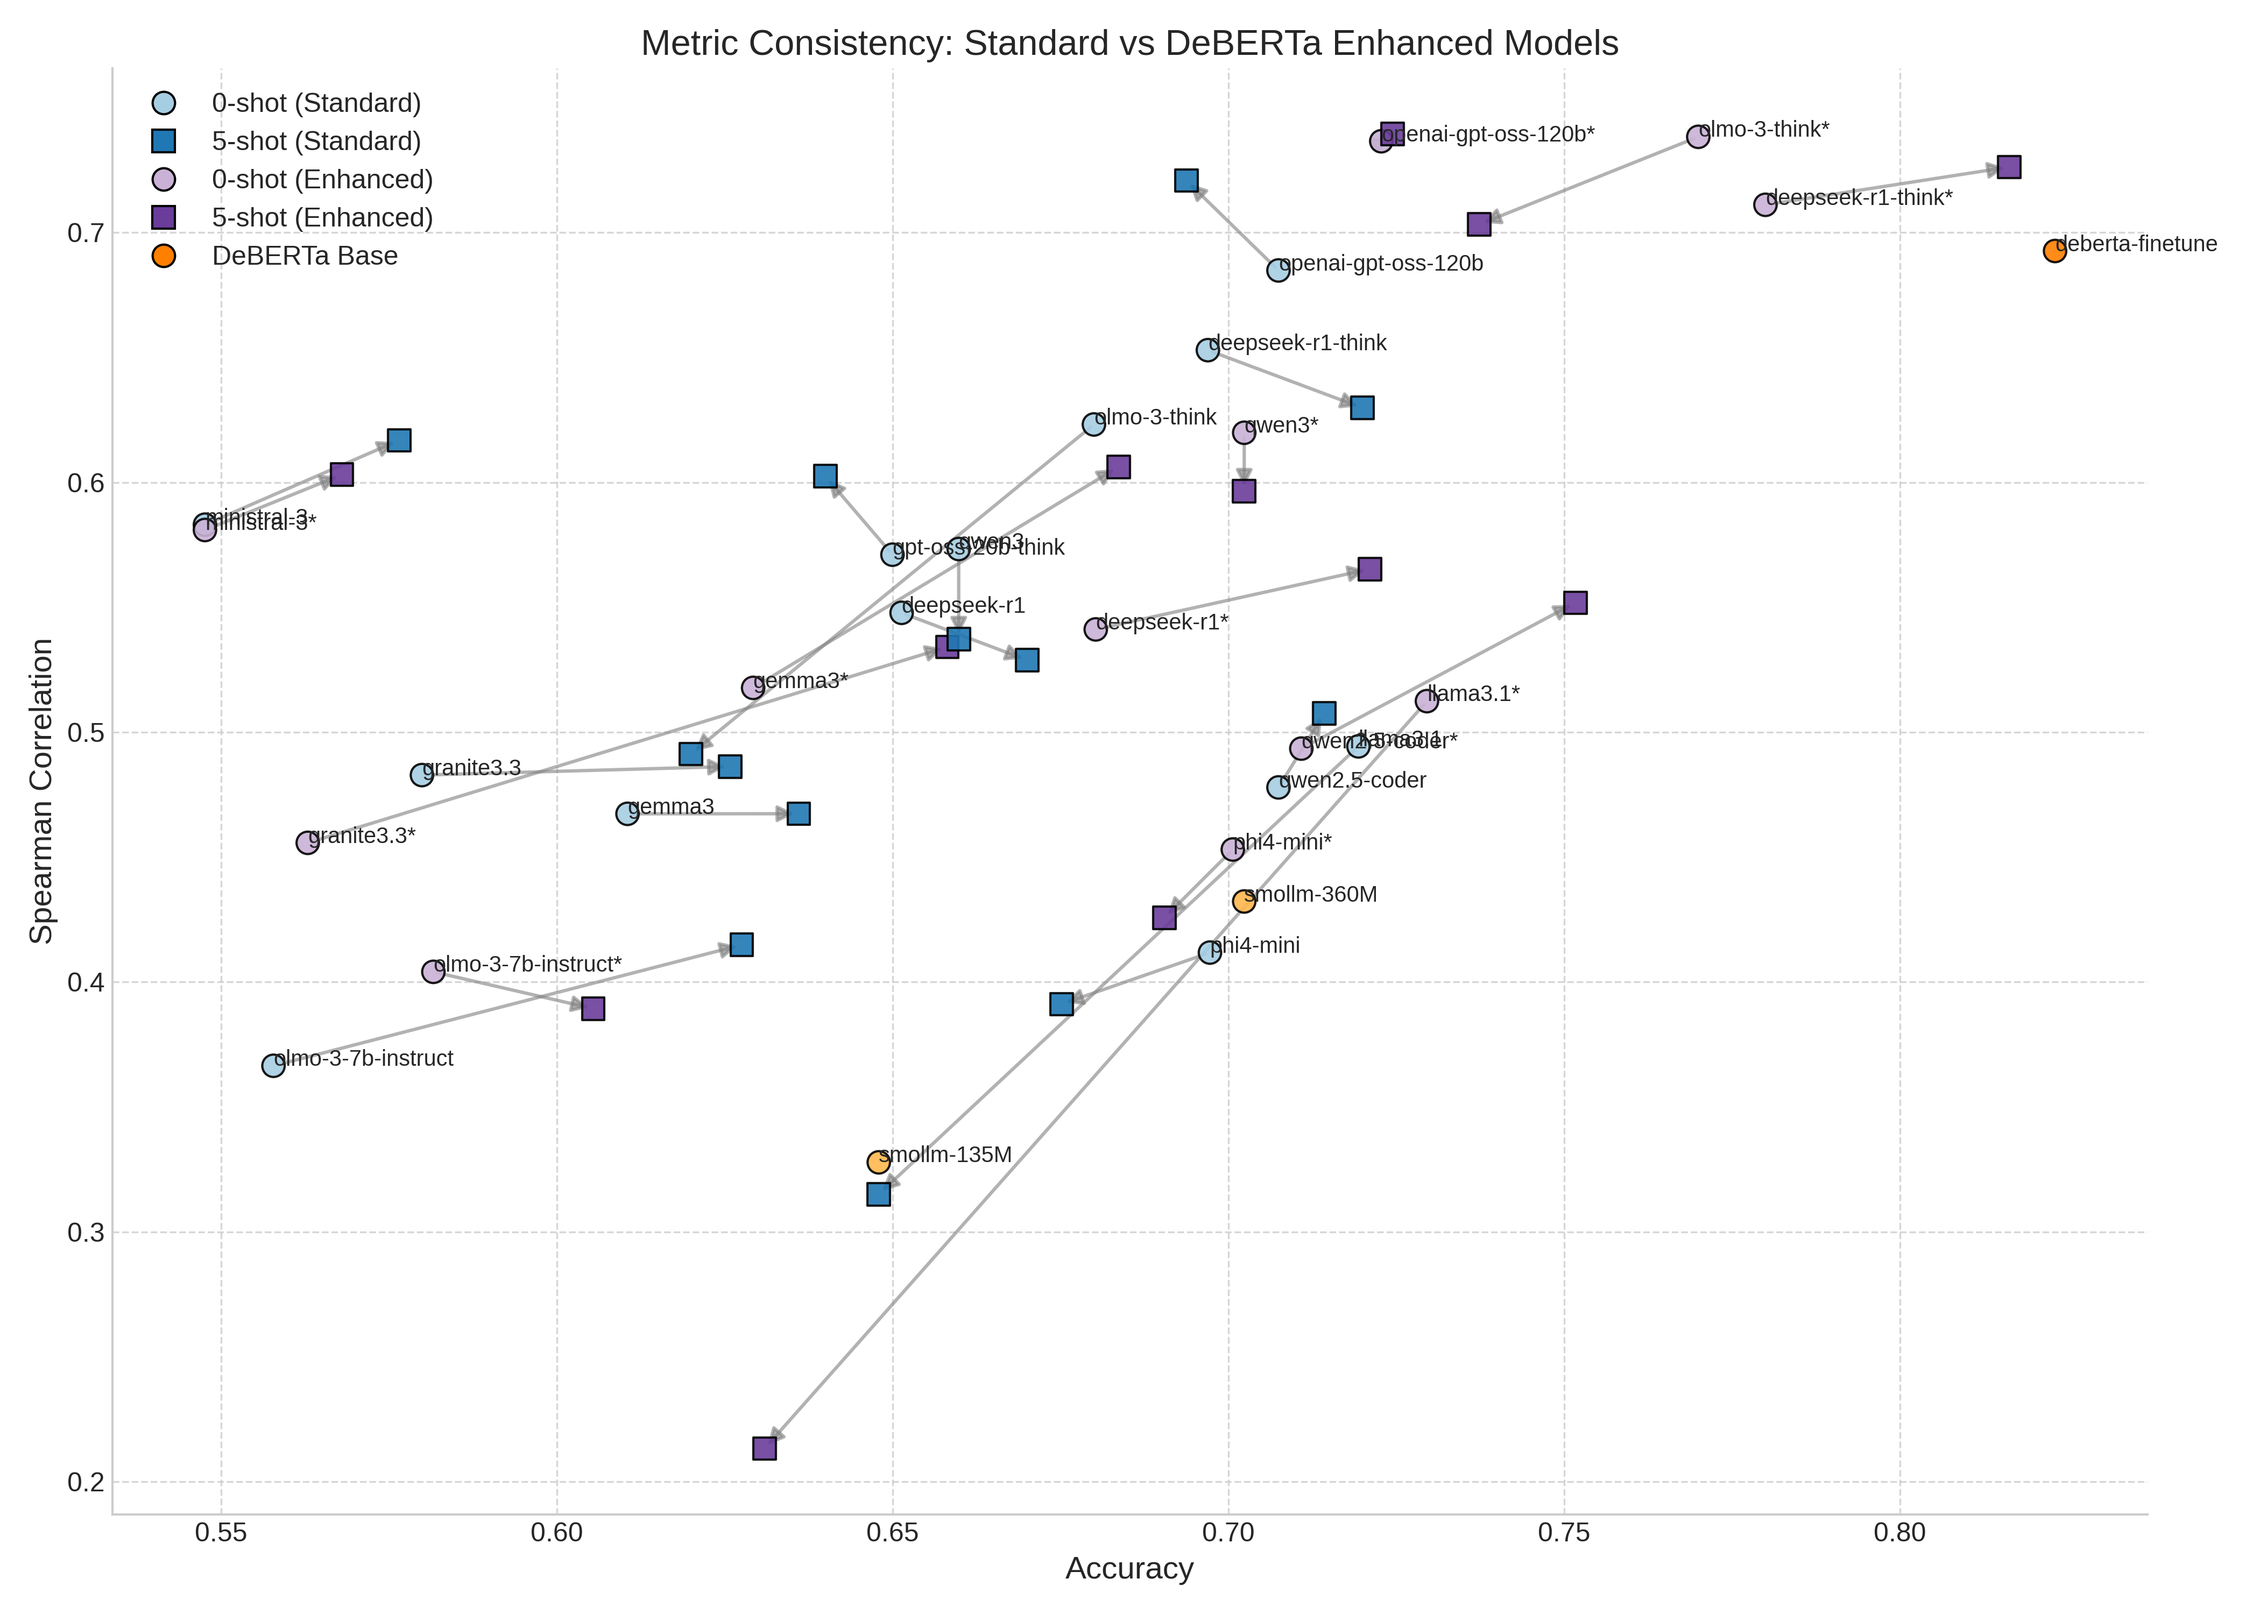
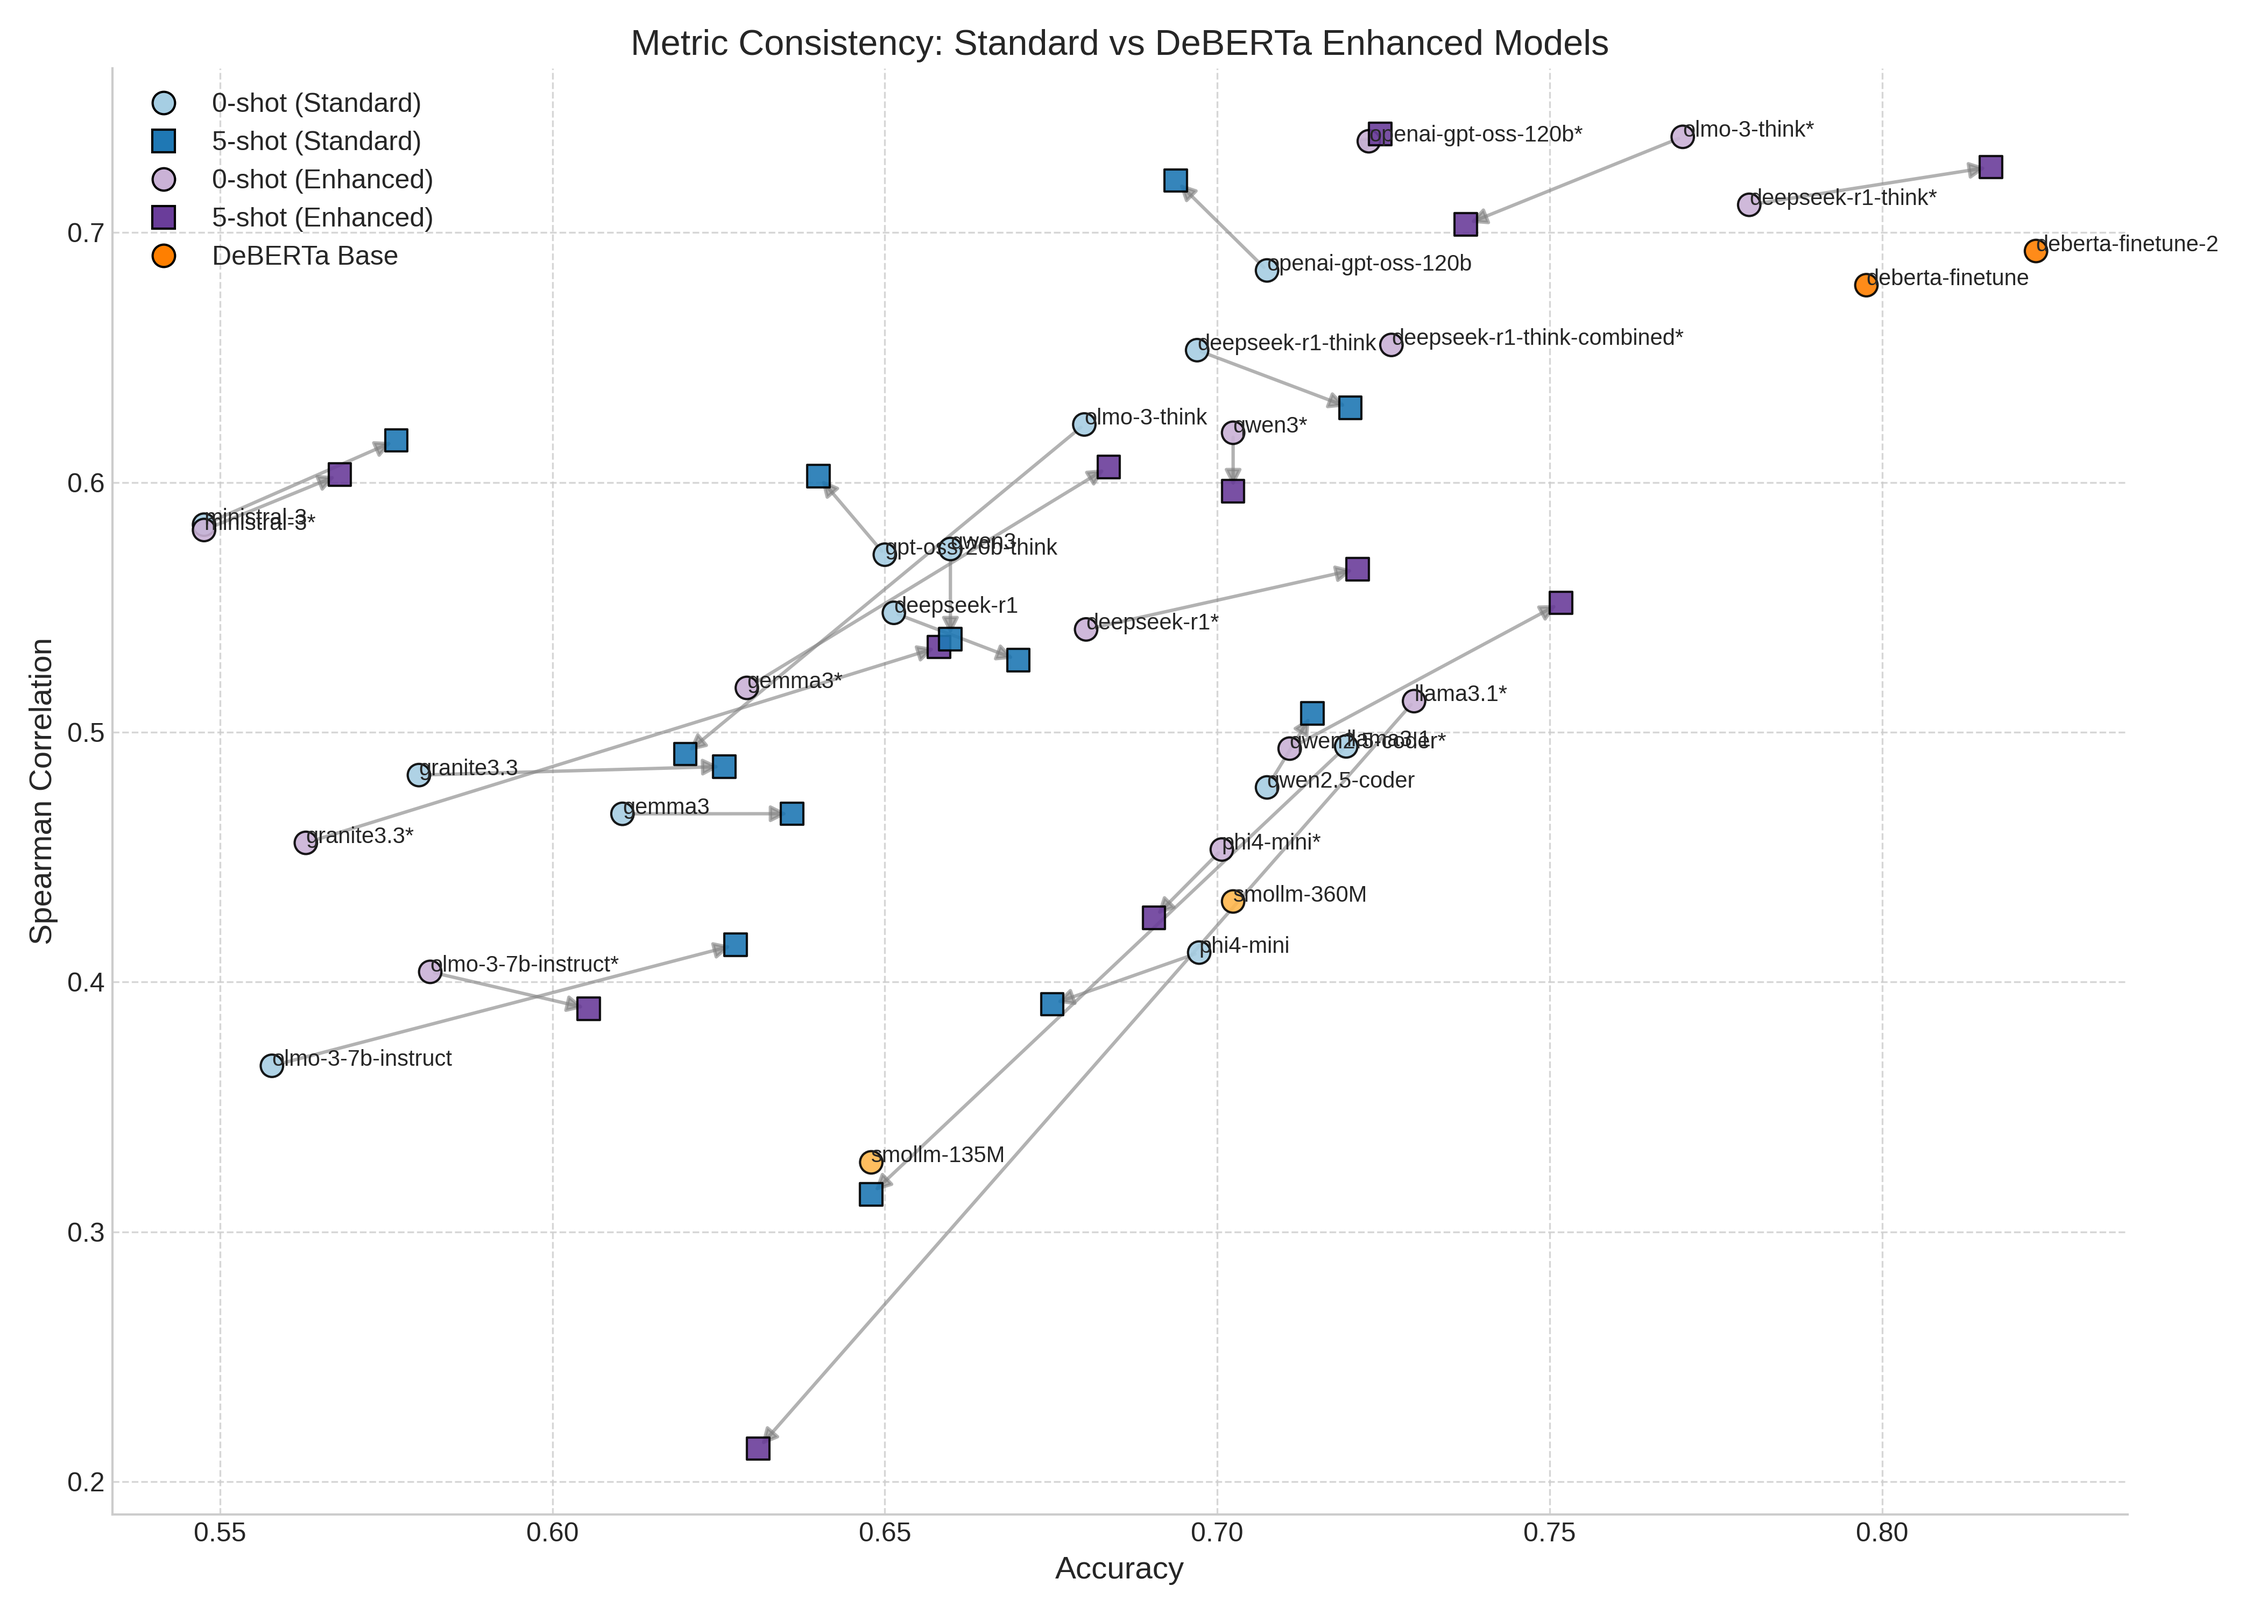
Plotting both versions of deberta-finetune

diff --git a/scripts/plot_results.py b/scripts/plot_results.py
@@ -169,87 +169,6 @@ def plot_improvement(df: pd.DataFrame, output_dir: Path):
     # This is basically the same as plot_accuracy but with annotations enabled.
     plot_grouped_bars(df, 'accuracy', 'Few-shot Learning Impact: Standard vs Enhanced', 'Accuracy', output_dir / 'few_shot_improvement.png', show_improvement=True)
 
-
-
-def plot_metric_consistency(df: pd.DataFrame, output_dir: Path):
-    """Plot Accuracy vs Spearman correlation (Zero-shot and Five-shot) to check consistency."""
-    # Prepare 0-shot data
-    z_df = df[['model', 'zero_accuracy', 'zero_spearman']].dropna().copy()
-    z_df = z_df.rename(columns={'zero_accuracy': 'accuracy', 'zero_spearman': 'spearman'})
-    
-    # Prepare 5-shot data
-    f_df = df[['model', 'five_accuracy', 'five_spearman']].dropna().copy()
-    f_df = f_df.rename(columns={'five_accuracy': 'accuracy', 'five_spearman': 'spearman'})
-    
-    if z_df.empty and f_df.empty:
-        print("No data available for metric consistency plot.")
-        return
-
-    fig, ax = plt.subplots(figsize=(12, 9))
-    
-    # Colors
-    c_0 = '#a6cee3' # Light Blue
-    c_5 = '#1f78b4' # Dark Blue
-    c_deberta = '#ff7f00' # Orange for DeBERTa
-    c_smollm_135 = '#FFB74D' # Lighter Orange
-    c_smollm_360 = '#FFB74D' # Same Lighter Orange
-
-    # Helper to get color
-    def get_color(m, default):
-        if 'deberta' in m: return c_deberta
-        if 'smollm-135M' in m: return c_smollm_135
-        if 'smollm-360M' in m: return c_smollm_360
-        return default
-
-    # Plot 0-shot
-    colors_z = [get_color(m, c_0) for m in z_df['model']]
-    ax.scatter(z_df['accuracy'], z_df['spearman'], color=colors_z, s=120, alpha=0.9, edgecolors='k', label='0-shot', zorder=3)
-    
-    # Plot 5-shot
-    colors_f = [get_color(m, c_5) for m in f_df['model']]
-    ax.scatter(f_df['accuracy'], f_df['spearman'], color=colors_f, s=120, alpha=0.9, edgecolors='k', marker='s', label='5-shot', zorder=3)
-
-    # Create custom legend to avoid DeBERTa color in 0-shot/5-shot labels
-    from matplotlib.lines import Line2D
-    legend_elements = [
-        Line2D([0], [0], marker='o', color='w', label='0-shot', markerfacecolor=c_0, markersize=10, markeredgecolor='k'),
-        Line2D([0], [0], marker='s', color='w', label='5-shot', markerfacecolor=c_5, markersize=10, markeredgecolor='k'),
-        Line2D([0], [0], marker='o', color='w', label='DeBERTa', markerfacecolor=c_deberta, markersize=10, markeredgecolor='k'),
-        Line2D([0], [0], marker='o', color='w', label='SmolLM-135M', markerfacecolor=c_smollm_135, markersize=10, markeredgecolor='k'),
-        Line2D([0], [0], marker='o', color='w', label='SmolLM-360M', markerfacecolor=c_smollm_360, markersize=10, markeredgecolor='k'),
-    ]
-    ax.legend(handles=legend_elements)
-
-    # Connect points for same model
-    common_models = set(z_df['model']).intersection(set(f_df['model']))
-    for model in common_models:
-        z_row = z_df[z_df['model'] == model].iloc[0]
-        f_row = f_df[f_df['model'] == model].iloc[0]
-        
-        # Draw arrow from 0-shot to 5-shot
-        ax.annotate("", 
-                    xy=(f_row['accuracy'], f_row['spearman']), 
-                    xytext=(z_row['accuracy'], z_row['spearman']),
-                    arrowprops=dict(arrowstyle="-|>", mutation_scale=20, color="gray", alpha=0.7, lw=2),
-                    zorder=2)
-
-    # Add labels
-    texts = []
-    # Label 0-shot points only
-    for _, row in z_df.iterrows():
-        texts.append(ax.text(row['accuracy'], row['spearman'], row['model'], fontsize=9))
-
-    ax.set_xlabel('Accuracy')
-    ax.set_ylabel('Spearman Correlation')
-    ax.set_title('Metric Consistency: Accuracy vs Spearman (0-shot & 5-shot)')
-    # ax.legend() # Removed default legend
-    ax.grid(True, linestyle='--', alpha=0.7)
-    
-    plt.tight_layout()
-    plt.savefig(output_dir / 'metric_consistency.png')
-    plt.close()
-    print(f"Saved metric_consistency.png")
-
 def plot_metric_consistency_superposed(df: pd.DataFrame, output_dir: Path):
     """Plot Accuracy vs Spearman correlation for ALL models (Standard + DeBERTa Enhanced)."""
     # Prepare 0-shot data
@@ -277,7 +196,7 @@ def plot_metric_consistency_superposed(df: pd.DataFrame, output_dir: Path):
 
     # Helper to get color
     def get_color(m, shot):
-        if m == 'deberta-finetune':
+        if 'deberta-finetune' in m:
             return c_deberta
         if 'smollm-135M' in m:
             return c_smollm_135
@@ -307,8 +226,6 @@ def plot_metric_consistency_superposed(df: pd.DataFrame, output_dir: Path):
                     arrowprops=dict(arrowstyle="-|>", mutation_scale=15, color="gray", alpha=0.6, lw=1.5),
                     zorder=2)
 
-    # Labels - Only label base models to avoid clutter, or label all?
-    # Let's label all but with small font
     for _, row in z_df.iterrows():
         label = row['model'].replace('-deberta', '')
         if '-deberta' in row['model']:

diff --git a/scripts/calc-0-5-shot-improvement.py b/scripts/calc-0-5-shot-improvement.py
@@ -143,13 +143,14 @@ def main() -> None:
 
 	results = collect_scores(ollama_dir)
 	
-	# Add DeBERTa score
-	deberta_dir = repo_root / "deberta-finetune-2" # Because the second version is a little better
-	deberta_score_path = deberta_dir / "score.json"
-	deberta_scores = read_score_file(deberta_score_path)
-	if deberta_scores:
-		# We'll put it under "zero" split so it appears in the first columns
-		results["deberta-finetune"] = {"zero": deberta_scores}
+	# Add DeBERTa scores (both v1 and v2) so both versions appear in the summary and plots
+	for dname in ["deberta-finetune", "deberta-finetune-2"]:
+		deberta_dir = repo_root / dname
+		deberta_score_path = deberta_dir / "score.json"
+		deberta_scores = read_score_file(deberta_score_path)
+		if deberta_scores:
+			# Keep original directory name as the model identifier (e.g., 'deberta-finetune' and 'deberta-finetune-2')
+			results[dname] = {"zero": deberta_scores}
 
 	# Add SmolLM scores
 	for size in ["135M", "360M"]:
